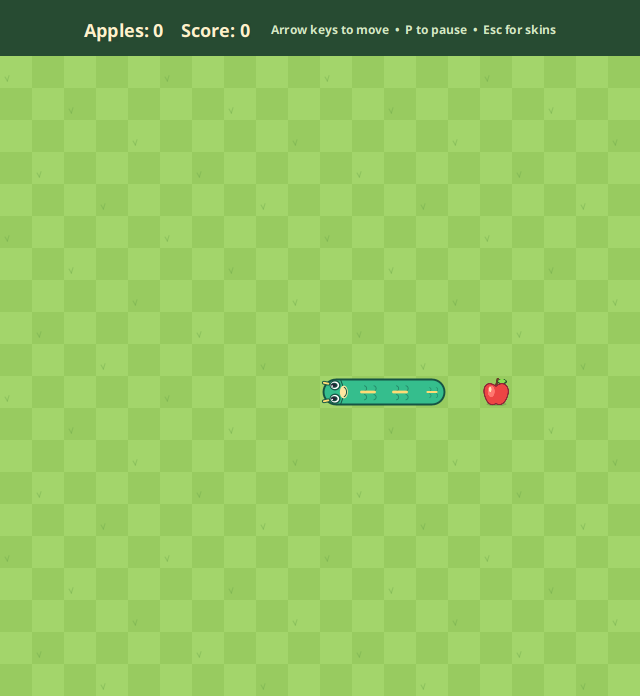
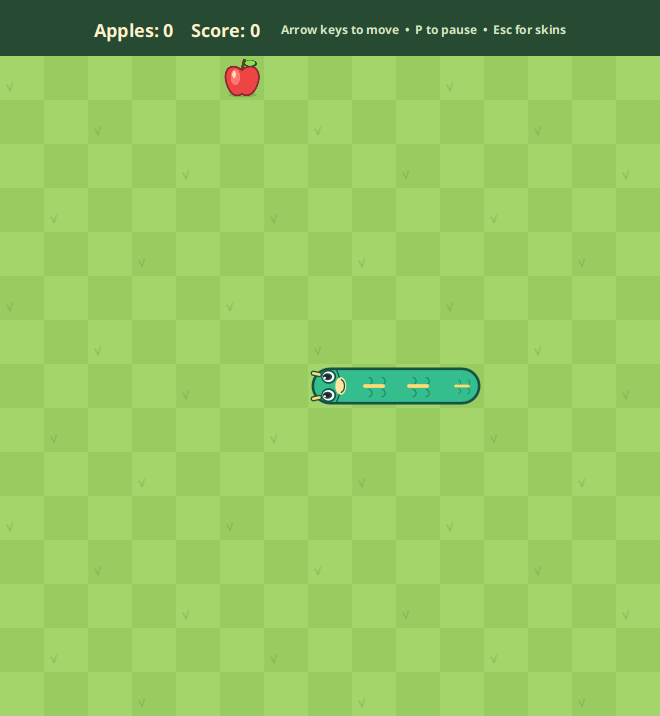
Reduce board to 15 by 15 and enlarge tiles to 44px

Changed region(s): [[0.125, 0.0302, 0.875, 0.1509], [0.4688, 0.5129, 0.8125, 0.6034]]

diff --git a/src/main/java/com/comp2042/MainMenuController.java b/src/main/java/com/comp2042/MainMenuController.java
@@ -10,8 +10,8 @@ import javafx.stage.Stage;
 
 public class MainMenuController {
 
-    private static final int X_VALUE = 20;
-    private static final int Y_VALUE = 20;
+    private static final int X_VALUE = 15;
+    private static final int Y_VALUE = 15;
     private static final boolean POWER_UP = false;
     private static final char DIFFICULTY = 'N';
 

diff --git a/src/main/java/com/comp2042/Game.java b/src/main/java/com/comp2042/Game.java
@@ -33,7 +33,7 @@ public class Game {
         if (height > 50) {
             multiplier = 10;
         } else {
-            multiplier = 32;
+            multiplier = 44;
         }
     }
 

diff --git a/docs/snake-skins.md b/docs/snake-skins.md
@@ -1,6 +1,6 @@
 # Snake: Apple Meadow
 
-Choose one of five cartoon skins, then collect red apples on the grass board. The 20 × 20 board now uses 32px tiles (previously 20px), with a separate score and controls bar. A new snake starts four tiles long. Each apple adds one segment and five points. Food spawns in empty cells, and filling the board wins the round.
+Choose one of five cartoon skins, then collect red apples on the grass board. The 15 × 15 board uses 44px tiles (previously 20 × 20 with 32px tiles), with a separate score and controls bar. A new snake starts four tiles long. Each apple adds one segment and five points. Food spawns in empty cells, and filling the board wins the round.
 
 ![Five connected skins on grass](snake-skins-preview.png)
 
@@ -40,4 +40,4 @@ The existing JavaFX 25.0.1 dependency needs JDK 23 or later at runtime. JDK 25 i
 
 ## Validation
 
-The Maven package build passes with JDK 25. Headless JavaFX checks cover all five skins, menu/start-button wiring, apple scoring and growth, turns and reverse-direction rejection, wall collision, the actual Try Again button, preserving the skin after retry, moving after retry, a full-board win without hanging during food spawning, restarting after victory, returning to skin selection, and the 640 × 696 scene with 32px tiles. The artwork, board and loss-screen snapshots were visually inspected. These checks do not replace manual gameplay on Windows.
+The Maven package build passes with JDK 25. Headless JavaFX checks cover all five skins, menu/start-button wiring, apple scoring and growth, turns and reverse-direction rejection, wall collision, the actual Try Again button, preserving the skin after retry, moving after retry, a full-board win without hanging during food spawning, restarting after victory, returning to skin selection, and the 660 × 716 scene with 44px tiles. The artwork, board and loss-screen snapshots were visually inspected. These checks do not replace manual gameplay on Windows.
